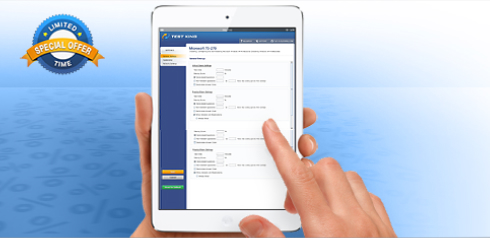
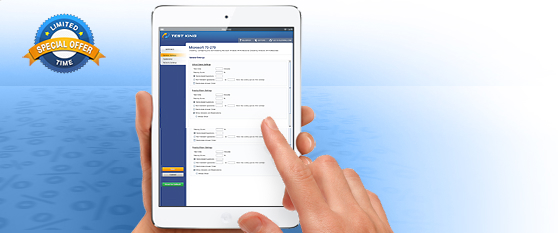
promotion

diff --git a/src/design/styles/pages/_promotion.scss b/src/design/styles/pages/_promotion.scss
@@ -2,27 +2,36 @@
   display: flex;
   align-items: center;
 
-  @media (max-width: $md) {
+  @media (max-width: $lg) {
     flex-direction: column;
   }
 
   &__box-img {
-    width: calc(50% - 30px);
-    margin-right: 30px;
+    margin: -12px 0 -15px -13px;
 
-    @media (max-width: $md) {
-      max-width: 490px;
+    @media (max-width: $lg) {
       width: 100%;
-      margin: 0 auto 15px;
+      max-width: 558px;
+      margin: 0 auto 20px;
+    }
+
+    @media (max-width: $sm) {
+      //margin: -12px
+
+      img {
+        margin: -12px -13px 0;
+        max-width: none;
+        width: 100%;
+      }
     }
   }
 
   &__box-form {
-    width: 50%;
+    max-width: 384px;
+    width: 100%;
+    flex-shrink: 0;
 
-    @media (max-width: $md) {
-      width: 100%;
-      max-width: 390px;
+    @media (max-width: $lg) {
       margin: 0 auto;
     }
 
@@ -37,7 +46,7 @@
 
   &__code {
     display: flex;
-    margin-bottom: 15px;
+    margin-bottom: 8px;
     align-items: center;
 
     @media (max-width: $md) {
@@ -63,6 +72,7 @@
   }
 
   &__wrap-code-input {
+    max-width: 185px;
 
     &._small {
       max-width: 80px;
@@ -76,7 +86,7 @@
   &__code-input {
     border: 1px solid $c-hr-lite-grey;
     border-radius: 5px;
-    padding: 10px;
+    padding: 7px 10px;
     color: $c-title-light;
     font-size: 16px;
     font-weight: bold;
@@ -87,7 +97,7 @@
   &__code-valid {
     margin-left: 5px;
     font-style: italic;
-    white-space: nowrap;
+    text-align: center;
 
     @media (max-width: $xsm) {
       margin-left: 0;
@@ -119,7 +129,11 @@
     display: flex;
     flex-direction: column;
     margin-right: 20px;
-    flex-grow: 1;
+    width: calc(100% - 123px);
+
+    @media (max-width: $xsm) {
+      width: calc(100% - 80px);
+    }
 
     select {
       width: 100%;
@@ -134,11 +148,16 @@
   }
 
   &__form-box-second {
+    width: 103px;
 
+    @media (max-width: xsm) {
+      width: 80px;
+    }
   }
 
   &__btn {
     padding: 7px 25px;
+    width: 100%;
 
     @media (max-width: $xsm) {
       padding: 7px 15px;

diff --git a/gulpfile.js b/gulpfile.js
@@ -211,9 +211,9 @@ gulp.task('img:build', function () {
 gulp.task('watch', function () {
   gulp.watch('src/pages/**/*.html', gulp.series('html'));
   gulp.watch('src/design/styles/**/*.scss', gulp.series('css'));
-  // gulp.watch('src/design/styles/**/*.scss', gulp.series('css:build-host'));
+  gulp.watch('src/design/styles/**/*.scss', gulp.series('css:build-host'));
   gulp.watch('src/design/js/**/*.js', gulp.series('js'));
-  // gulp.watch('src/design/js/**/*.js', gulp.series('js:build-host'));
+  gulp.watch('src/design/js/**/*.js', gulp.series('js:build-host'));
 });
 
 gulp.task('default', gulp.series(
@@ -224,10 +224,10 @@ gulp.task('default', gulp.series(
     'fonts',
     'css:libs',
     'css',
-    // 'css:build-host',
+    'css:build-host',
     'js:libs',
     'js',
-    // 'js:build-host',
+    'js:build-host',
     'watch',
     'browser-sync'
   )));

diff --git a/src/pages/promotion.html b/src/pages/promotion.html
@@ -12,9 +12,9 @@
 
       <div class="content">
 
-        <section class="section promo">
+        <section class="section promo _border">
           <div class="promo__box-img">
-            <img src="/design/images/bg-promo2.jpg" alt="promo">
+            <img src="/design/images/bg-promo3.jpg" alt="promo">
           </div>
           <div class="promo__box-form">
             <h1 class="h1">Get 15% OFF on All Exams</h1>
